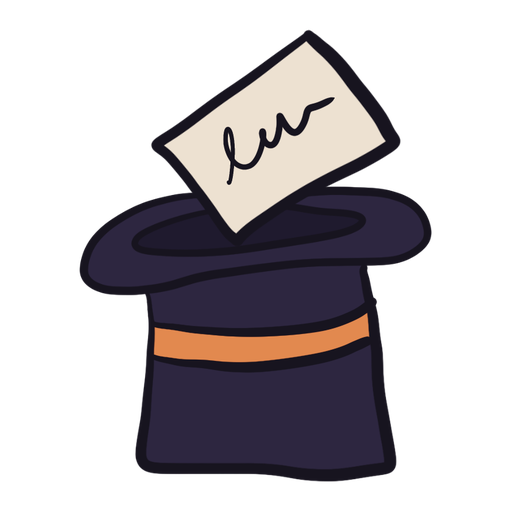
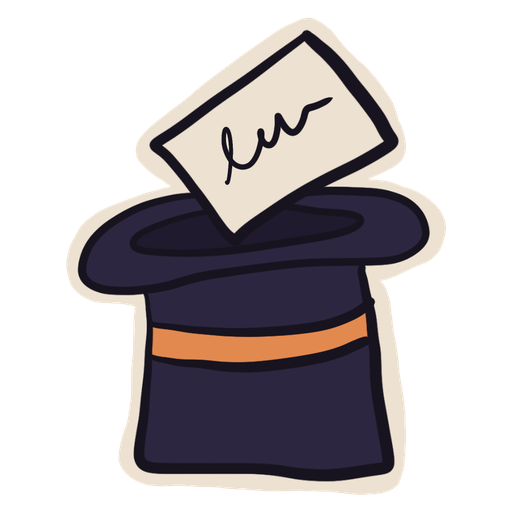
Lapp i hatt and Make your own: Ellen's new versions with a cream edge around the hat, so it holds on dark
Claude-Session: https://claude.ai/code/session_01SaFbP8U8SXmXtasSBfJido

diff --git a/site/drawings/index.html b/site/drawings/index.html
@@ -66,7 +66,7 @@ figcaption .used { font-size:12px; }
 <figure><div class="pair"><span class="light"><img src="/drawings/imposter.png" alt="" width="128" height="128"></span><span class="dark"><img src="/drawings/imposter.png" alt="" width="128" height="128"></span></div><figcaption><b>imposter</b><span>Imposter (magnifying glass finds the odd face out)</span><span class="used">party games: game card</span></figcaption></figure>
 <figure><div class="pair"><span class="light"><img src="/drawings/charades.png" alt="" width="128" height="128"></span><span class="dark"><img src="/drawings/charades.png" alt="" width="128" height="128"></span></div><figcaption><b>charades</b><span>Charades (three faces: silly, laughing, crying)</span><span class="used">party games: game card</span></figcaption></figure>
 <figure><div class="pair"><span class="light"><img src="/drawings/same-thing.png" alt="" width="128" height="128"></span><span class="dark"><img src="/drawings/same-thing.png" alt="" width="128" height="128"></span></div><figcaption><b>same-thing</b><span>Don&#x27;t say the same thing (speech bubbles, tick and cross)</span><span class="used">party games: game card</span></figcaption></figure>
-<figure><div class="pair"><span class="light"><img src="/drawings/lapp-i-hatt.png" alt="" width="128" height="128"></span><span class="dark"><img src="/drawings/lapp-i-hatt.png" alt="" width="128" height="128"></span></div><figcaption><b>lapp-i-hatt</b><span>Lapp i hatt (top hat with a note)</span><span class="used">party games: game card</span></figcaption></figure>
+<figure><div class="pair"><span class="light"><img src="/drawings/lapp-i-hatt.png" alt="" width="128" height="128"></span><span class="dark"><img src="/drawings/lapp-i-hatt.png" alt="" width="128" height="128"></span></div><figcaption><b>lapp-i-hatt</b><span>Lapp i hatt (top hat with a note, cream edge so it holds on dark)</span><span class="used">party games: game card</span></figcaption></figure>
 <figure><div class="pair"><span class="light"><img src="/drawings/wolf-sheep.png" alt="" width="128" height="128"></span><span class="dark"><img src="/drawings/wolf-sheep.png" alt="" width="128" height="128"></span></div><figcaption><b>wolf-sheep</b><span>Wolf in Sheep&#x27;s Clothing (wolf in wool beside a sheep)</span><span class="used">party games: game card</span></figcaption></figure>
 <figure><div class="pair"><span class="light"><img src="/drawings/make-your-own.png" alt="" width="128" height="128"></span><span class="dark"><img src="/drawings/make-your-own.png" alt="" width="128" height="128"></span></div><figcaption><b>make-your-own</b><span>Make your own (hat, ace, dice and the PANNBEN smiley)</span><span class="used">party games: your packs card</span></figcaption></figure>
 </div>

diff --git a/art/drawings/build.py b/art/drawings/build.py
@@ -46,7 +46,7 @@ DRAWINGS = [
   ("imposter", "Imposter (magnifying glass finds the odd face out)", "party games: game card"),
   ("charades", "Charades (three faces: silly, laughing, crying)", "party games: game card"),
   ("same-thing", "Don't say the same thing (speech bubbles, tick and cross)", "party games: game card"),
-  ("lapp-i-hatt", "Lapp i hatt (top hat with a note)", "party games: game card"),
+  ("lapp-i-hatt", "Lapp i hatt (top hat with a note, cream edge so it holds on dark)", "party games: game card"),
   ("wolf-sheep", "Wolf in Sheep's Clothing (wolf in wool beside a sheep)", "party games: game card"),
   ("make-your-own", "Make your own (hat, ace, dice and the PANNBEN smiley)", "party games: your packs card"),
 ]
